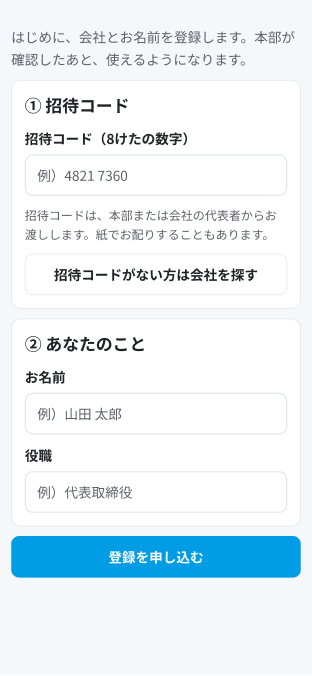
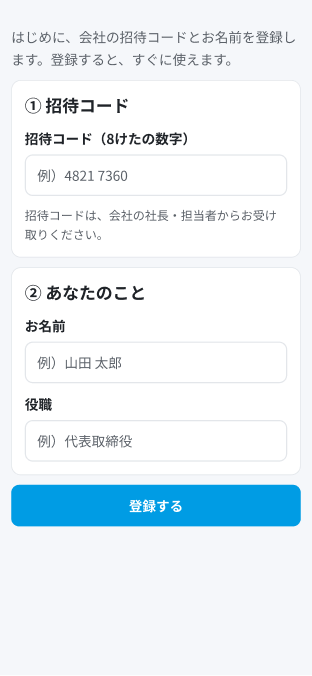
docs: 8章の登録の流れを招待コードで即利用に直す
Claude-Session: https://claude.ai/code/session_01Xvcy5eNmVuFLCBaXd9t6xg

diff --git a/08-feature-list.md b/08-feature-list.md
@@ -35,7 +35,7 @@ title: 機能一覧（やりたいことと機能）
 | 退会した人が、もう見られないようにしたい | <a href="assets/features/a13-withdrawal.png"><img src="assets/features/a13-withdrawal.png" width="160" alt="a13-withdrawal.png"></a> | 本部 | 休会・退会の状態変更。「自動で止まるもの」と「手作業が要るもの」を分けて表示し、連絡グループから外したチェックがないと確定できない。確定すると配信とアプリの閲覧が自動で止まる | A-13 | 確定 |
 | スポンサーを管理したい | <a href="assets/features/a20-sponsors.png"><img src="assets/features/a20-sponsors.png" width="160" alt="a20-sponsors.png"></a> | 本部 | 一覧・詳細・新規登録。番号は自動で付き、紹介者は利用者から選ぶ。契約区分（松・竹・梅）は1社に1つ。「退会にする」と「有効に戻す」だけで、休会はない | A-20・A-21・A-22 | 確定（変更あり） |
 | 社員（利用者）を管理したい | <a href="assets/features/a30-users.png"><img src="assets/features/a30-users.png" width="160" alt="a30-users.png"></a> | 本部 | 利用者の一覧・詳細、役割の付与（1人に複数付けられる）、利用を止める | A-30・A-31 | 確定 |
-| LINE で登録してきた人を、正しい会社に結び付けたい | <a href="assets/features/b11-link-approval.png"><img src="assets/features/b11-link-approval.png" width="160" alt="b11-link-approval.png"></a> | 本部 | 紐付けの申請を承認・却下する | B-11 | 確定 |
+| LINE で登録してきた人を、正しい会社に結び付けたい | <a href="assets/features/b11-link-approval.png"><img src="assets/features/b11-link-approval.png" width="160" alt="b11-link-approval.png"></a> | 本部 | 紐付けの申請を承認・却下する。招待コードを入れた人はその場で使えるようになったため、この画面を何に使うかは未決 | B-11 | 未決 |
 | 年度替わりに、支部・進捗会の所属をまとめて変えたい | <a href="assets/features/a40-groups.png"><img src="assets/features/a40-groups.png" width="160" alt="a40-groups.png"></a> | 本部 | グループ（支部・進捗会・スポンサー）の定義と、会社のまとめての移動。「支部」などのまとめ行は所属先にはできず、対象選びでだけ選べる | A-40 | 確定 |
 | SV がどの加盟店を担当するか決めたい | <a href="assets/features/a50-sv.png"><img src="assets/features/a50-sv.png" width="160" alt="a50-sv.png"></a> | 本部 | SV と担当加盟店の割り当て・解除 | A-50 | 確定 |
 | セミナーや進捗会の予定を作って、対象の人に見せたい | <a href="assets/features/a60-events.png"><img src="assets/features/a60-events.png" width="160" alt="a60-events.png"></a><br><a href="assets/features/a61-event-form.png"><img src="assets/features/a61-event-form.png" width="160" alt="a61-event-form.png"></a> | 本部 | 予定の一覧（表・月表示）と作成・編集。最初は下書きで、「この予定を公開する」で公開。対象は支部・進捗会・スポンサー・部署のどれかに当てはまる人で、選ばなければ本部だけが見る。講師は利用者から選ぶか文字で入力。備考＝加盟店向けの案内文。セミナーは HP の申込ページの URL、進捗会は Zoom の URL を入れる。「共有しない」にすると、アプリに出さず運営だけが見る | A-60・A-60b・A-61 | 確定（変更あり） |
@@ -64,7 +64,7 @@ title: 機能一覧（やりたいことと機能）
 | やりたいこと | 画面の画像 | 使う人 | システムの機能 | 画面 | 状態 |
 |---| --- |---|---|---|---|
 | 新しいパスワードを覚えずに使いたい | <a href="assets/features/s01-launch.png"><img src="assets/features/s01-launch.png" width="110" alt="s01-launch.png"></a> | 全員 | LINE で開くと、そのまま本人と分かる（LINE 認証） | S-01 | 確定 |
-| 自分の会社のメンバーとして登録したい | <a href="assets/features/s02-register.png"><img src="assets/features/s02-register.png" width="110" alt="s02-register.png"></a><br><a href="assets/features/s03-waiting.png"><img src="assets/features/s03-waiting.png" width="110" alt="s03-waiting.png"></a> | 全員 | 招待コードの入力、または会社を探して紐付けを申請。本部が承認するまで「承認待ち」を表示 | S-02・S-03 | 確定 |
+| 自分の会社のメンバーとして登録したい | <a href="assets/features/s02-register.png"><img src="assets/features/s02-register.png" width="110" alt="s02-register.png"></a> | 全員 | 社長・担当者から受け取った招待コード（QR でアプリを開いて入れる）と、お名前・役職を入れると、その場でその会社の社員として使える（本部の承認はなし）。会社を探して申請する道は作らない | S-02 | 確定（変更あり） |
 | 開いたらすぐ、次の予定と新しい知らせを見たい | <a href="assets/features/s04-home.png"><img src="assets/features/s04-home.png" width="110" alt="s04-home.png"></a> | 全員 | ホーム：いちばん上に次の予定（当日は Zoom に入るボタン）、その下に新しいお知らせ・申し込めるセミナー・アーカイブ | S-04 | 確定（変更あり） |
 | セミナーを探して申し込みたい | <a href="assets/features/s05-seminars.png"><img src="assets/features/s05-seminars.png" width="110" alt="s05-seminars.png"></a><br><a href="assets/features/s07-seminar.png"><img src="assets/features/s07-seminar.png" width="110" alt="s07-seminar.png"></a> | 全員 | 予定一覧（セミナー）→ 詳細（種類・件名・日時・場所）→「HP で申し込む」で HP の申込ページへ移る。満席・締切の表示はなし | S-05・S-07 | 確定（変更あり） |
 | ちゃんと申し込めたか確かめたい | <a href="assets/features/s07-seminar-applied.png"><img src="assets/features/s07-seminar-applied.png" width="110" alt="s07-seminar-applied.png"></a><br><a href="assets/features/s20-history.png"><img src="assets/features/s20-history.png" width="110" alt="s20-history.png"></a> | 全員 | 申込済みの札（HP の申込をメールアドレスで結び付けて表示）、申し込み履歴 | S-07・S-20 | 確定（変更あり） |
